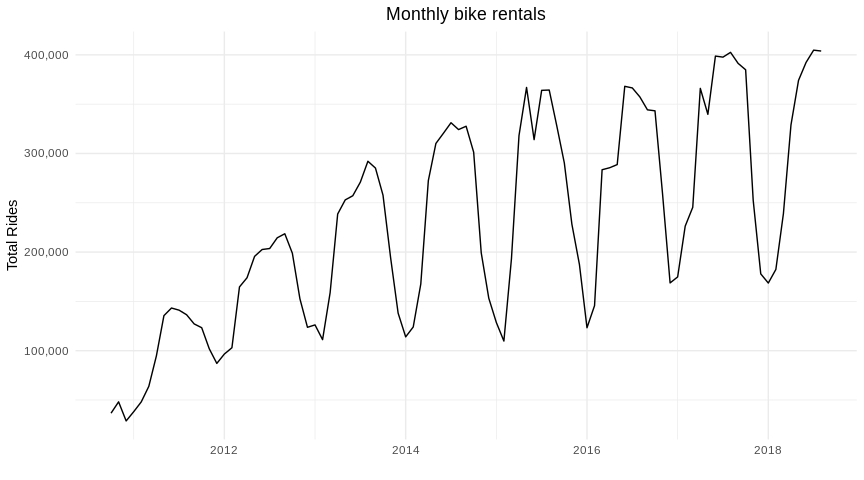
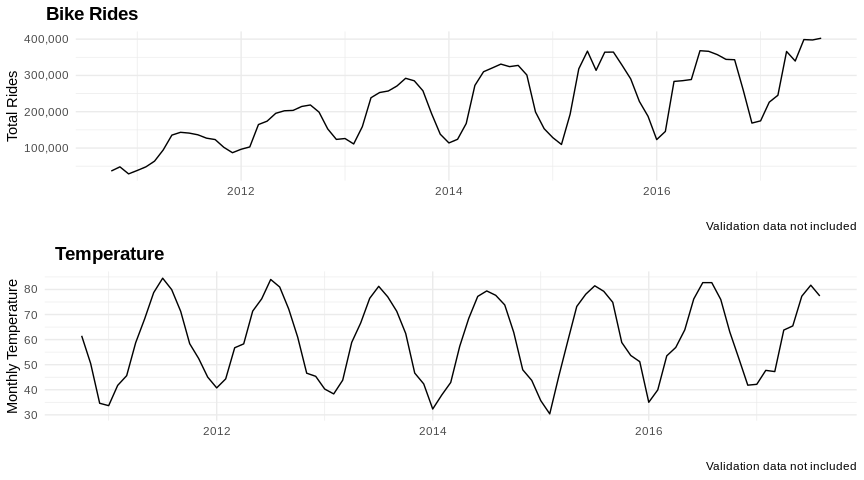
updated about

diff --git a/_posts/2019-11-01-Monthly_Bike_Forecast.md b/_posts/2019-11-01-Monthly_Bike_Forecast.md
@@ -9,11 +9,6 @@ excerpt: "ARIMA modeling of monthly Bikeshare usage"
 
 # Forecasting Capital Bikeshare usage with ARIMA
 
-![DC BikeShare](/assets/images/obi-onyeador-a3PAvq9FpIY-unsplash.jpg)
-_Photo by Obi Onyeador on Unsplash_
-
-
-------------------------------------------------------------------------
 
 In this post, I’ll be modeling monthly ridership in the DC BikeShare
 program using ARIMA modeling. The original data was gathered from the
@@ -72,7 +67,7 @@ plot(closingApple, main ="Closing Prices on Apple Stock")
 plot(DclosingApple, main ="Differenced Closing Prices on Apple Stock")
 ```
 
-![](/rblogging/2019/11/01/differencing%20example-1.png)
+![](/rblogging/2019/11/01/Monthly_Bike_Forecast_files/differencing%20example-1.png)
 
 However, was that enough achieve stationarity? Formally, stationarity
 can be assessed by using one of many unit tests. One popular test is the
@@ -122,33 +117,38 @@ for forecasting:
 **MA(*q*)**, a moving-average model of order q. Read more
 [here](https://otexts.com/fpp2/MA.html)
 
-**ARIMA**
+**ARIMA Formulation**
 
 Combining the autoregression and moving average model, we obtain a
 non-seasonal ARIMA model which is denoted as
 **ARIMA**(*p,d,q*)**model**, where
 
-p - order of the auto-regressive part d - degree of first differencing
-involved q - order of the moving average part
+-   p - order of the auto-regressive part
+-   d - degree of first differencing involved
+-   q - order of the moving average part
 
 The **seasonal** version of ARIMA builds upon this to include 4
 additional seasonal terms:
 
-m - number of observations per year (12 for months, 4 for quarters,
-etc.) P - order of the seasonal auto-regressive part D - degree of first
-differencing involved for seasonal observations Q - order of the
-seasonal moving average part
+-   m - number of observations per year (12 for months, 4 for quarters,
+    etc.)
+-   P - order of the seasonal auto-regressive part
+-   D - degree of first differencing involved for seasonal observations
+-   Q - order of the seasonal moving average part
 
 ------------------------------------------------------------------------
 
-From the initial plot, we can tell the data has clear seasonality with
-many fewer riders in the winter months. At the same time, we see an
-growth in the number of total riders that has appeared to slow in recent
-years.
+#### Application to DC Bike Share
 
-![](/rblogging/2019/11/01/Plots-1.png)![](/rblogging/2019/11/01/Plots-2.png)
+Now we’ll apply the ARIMA model to the monthly bike share data while
+using the temperature data as a regressor.
 
-#### Partition
+From the initial plot of the bike data, we can tell the data has clear
+seasonality with many fewer riders in the winter months. At the same
+time, we see an growth in the number of total riders that has appeared
+to slow in recent years. In the plot for temperature we see a
+predicatble seasonality whose peaks and valleys remain almost equal in
+size throughout the entire time frame:
 
     ##         Jan    Feb    Mar    Apr    May    Jun    Jul    Aug    Sep    Oct
     ## 2010                                                                 36613
@@ -192,6 +192,8 @@ years.
     ## 2017 49.820 39.200
     ## 2018
 
+![](/rblogging/2019/11/01/Monthly_Bike_Forecast_files/Plots-1.png)
+
 #### Decomposition
 
 The first step in building an ARIMA model is decomposing the series into
@@ -207,7 +209,7 @@ decompose(bike_train, type="multiplicative") %>% autoplot() +
   theme(plot.title = element_text(hjust = 0.5)) + xlab("")
 ```
 
-![](/rblogging/2019/11/01/unnamed-chunk-1-1.png)
+![](/rblogging/2019/11/01/Monthly_Bike_Forecast_files/unnamed-chunk-1-1.png)
 
 #### Stationarity
 
@@ -219,7 +221,7 @@ Dickey-Fuller test.
 To accomplish this, the first step is to remove the seasonal trend from
 the original series.
 
-![](/rblogging/2019/11/01/Removing%20Seasonality-1.png)
+![](/rblogging/2019/11/01/Monthly_Bike_Forecast_files/Removing%20Seasonality-1.png)
 
 However, the “de-seasoned” data fails the Adjusted Dickey-Fuller test,
 indicating the series is not yet stationary:
@@ -240,7 +242,7 @@ adf.test(deseasonal_cnt, alternative = "stationary")
 Examining the ACF and PACF plots indicate that differencing the series
 by 1 (\_d\_\_=1), could help:
 
-![](/rblogging/2019/11/01/ACF%20and%20PACF%20plots-1.png)![](/rblogging/2019/11/01/ACF%20and%20PACF%20plots-2.png)
+![](/rblogging/2019/11/01/Monthly_Bike_Forecast_files/ACF%20and%20PACF%20plots-1.png)![](/rblogging/2019/11/01/Monthly_Bike_Forecast_files/ACF%20and%20PACF%20plots-2.png)
 
 Differencing the data by one period appears to bring stationarity to the
 series as tested by the ADF test.
@@ -261,7 +263,7 @@ adf.test(deseasoned_count_d1, alternative = "stationary")
 From the plot, it appears that the differenced, deseasoned data has a
 stationary mean, though the variance does not appear constant:
 
-![](/rblogging/2019/11/01/Searching%20for%20Stationarity:%20Differencing%20Plot-1.png)
+![](/rblogging/2019/11/01/Monthly_Bike_Forecast_files/Searching%20for%20Stationarity:%20Differencing%20Plot-1.png)
 
 ------------------------------------------------------------------------
 
@@ -269,10 +271,10 @@ Running ACF, PACF plots of the differeced data to see what values for
 *q*, *p* would be for an ARIMA model:
 
 The ACF plot shows significant auto-correlations at lags 1,6,10,12 (*q*)
-![](/rblogging/2019/11/01/Differenced%20ACF-1.png)
+![](/rblogging/2019/11/01/Monthly_Bike_Forecast_files/Differenced%20ACF-1.png)
 
 The PACF plot shows significant partial-correlations at 5,6, and 9 (*p*)
-![](/rblogging/2019/11/01/Differenced%20PACF-1.png)
+![](/rblogging/2019/11/01/Monthly_Bike_Forecast_files/Differenced%20PACF-1.png)
 
 #### Modeling
 
@@ -295,7 +297,7 @@ autocorrelations.
     ##
     ## sigma^2 estimated as 434834666:  log likelihood = -1067.37,  aic = 2158.74
 
-![](/rblogging/2019/11/01/Fit%20Evaluation-1.png)
+![](/rblogging/2019/11/01/Monthly_Bike_Forecast_files/Fit%20Evaluation-1.png)
 
 *auto.arima()*
 
@@ -323,7 +325,7 @@ fit2 <- auto.arima(deseasoned_count_d1,seasonal=FALSE)
 tsdisplay(residuals(fit2), lag.max=45, main='(2,0,2) Model Residuals')
 ```
 
-![](/rblogging/2019/11/01/Auto-Arima-1.png)
+![](/rblogging/2019/11/01/Monthly_Bike_Forecast_files/Auto-Arima-1.png)
 
 #### Forecasting and Back-Testing
 
@@ -355,11 +357,11 @@ Will give auto.arima a shot, using default parameters. Returns a MAPE of
     ##                     ME     RMSE     MAE      MPE     MAPE      MASE        ACF1
     ## Training set -291.7736 22292.25 18183.7 1.379566 11.88621 0.4186552 -0.02153787
 
-![](/rblogging/2019/11/01/auto-arima%20with%20NOAA%20data-1.png)
+![](/rblogging/2019/11/01/Monthly_Bike_Forecast_files/auto-arima%20with%20NOAA%20data-1.png)
 
 Residual inspection:
 
-![](/rblogging/2019/11/01/inspecting%20residuals-1.png)
+![](/rblogging/2019/11/01/Monthly_Bike_Forecast_files/inspecting%20residuals-1.png)
 
     ##
     ##  Ljung-Box test
@@ -388,11 +390,11 @@ Auto.arima without a regressor
     ##                    ACF1
     ## Training set 0.01308924
 
-![](/rblogging/2019/11/01/unnamed-chunk-2-1.png)
+![](/rblogging/2019/11/01/Monthly_Bike_Forecast_files/unnamed-chunk-2-1.png)
 
 Residual inspection:
 
-![](/rblogging/2019/11/01/inspecting%20residuals2-1.png)
+![](/rblogging/2019/11/01/Monthly_Bike_Forecast_files/inspecting%20residuals2-1.png)
 
     ##
     ##  Ljung-Box test
@@ -417,7 +419,7 @@ Residual inspection:
     ##                     ME     RMSE     MAE      MPE     MAPE      MASE        ACF1
     ## Training set -291.7736 22292.25 18183.7 1.379566 11.88621 0.4186552 -0.02153787
 
-![](/rblogging/2019/11/01/second%20auto-arima%20with%20NOAA%20data-1.png)
+![](/rblogging/2019/11/01/Monthly_Bike_Forecast_files/second%20auto-arima%20with%20NOAA%20data-1.png)
 
     ##
     ## Forecast method: Regression with ARIMA(0,1,2)(1,0,0)[12] errors

diff --git a/_pages/about.md b/_pages/about.md
@@ -12,4 +12,6 @@ share: false
 
 I am a data scientist in Washington, DC currently employed at Marriott International where I serve as a scrum master to a team of data analysts, scientists, and engineers. My work focuses on analyzing the performance and setting goals for our Loyalty program - Marriott Bonvoy.
 
+I have extensive experience in deriving insights from 100s of millions of rows of data using R, SQL, and Tableau, and more recently Python. I also have a background in statistics, with a experience in inferential statistics, forecasting, and experimental design.
+
 This blog is meant to serve as a collection of my projects and learnings in the field of data science and machine learning.
